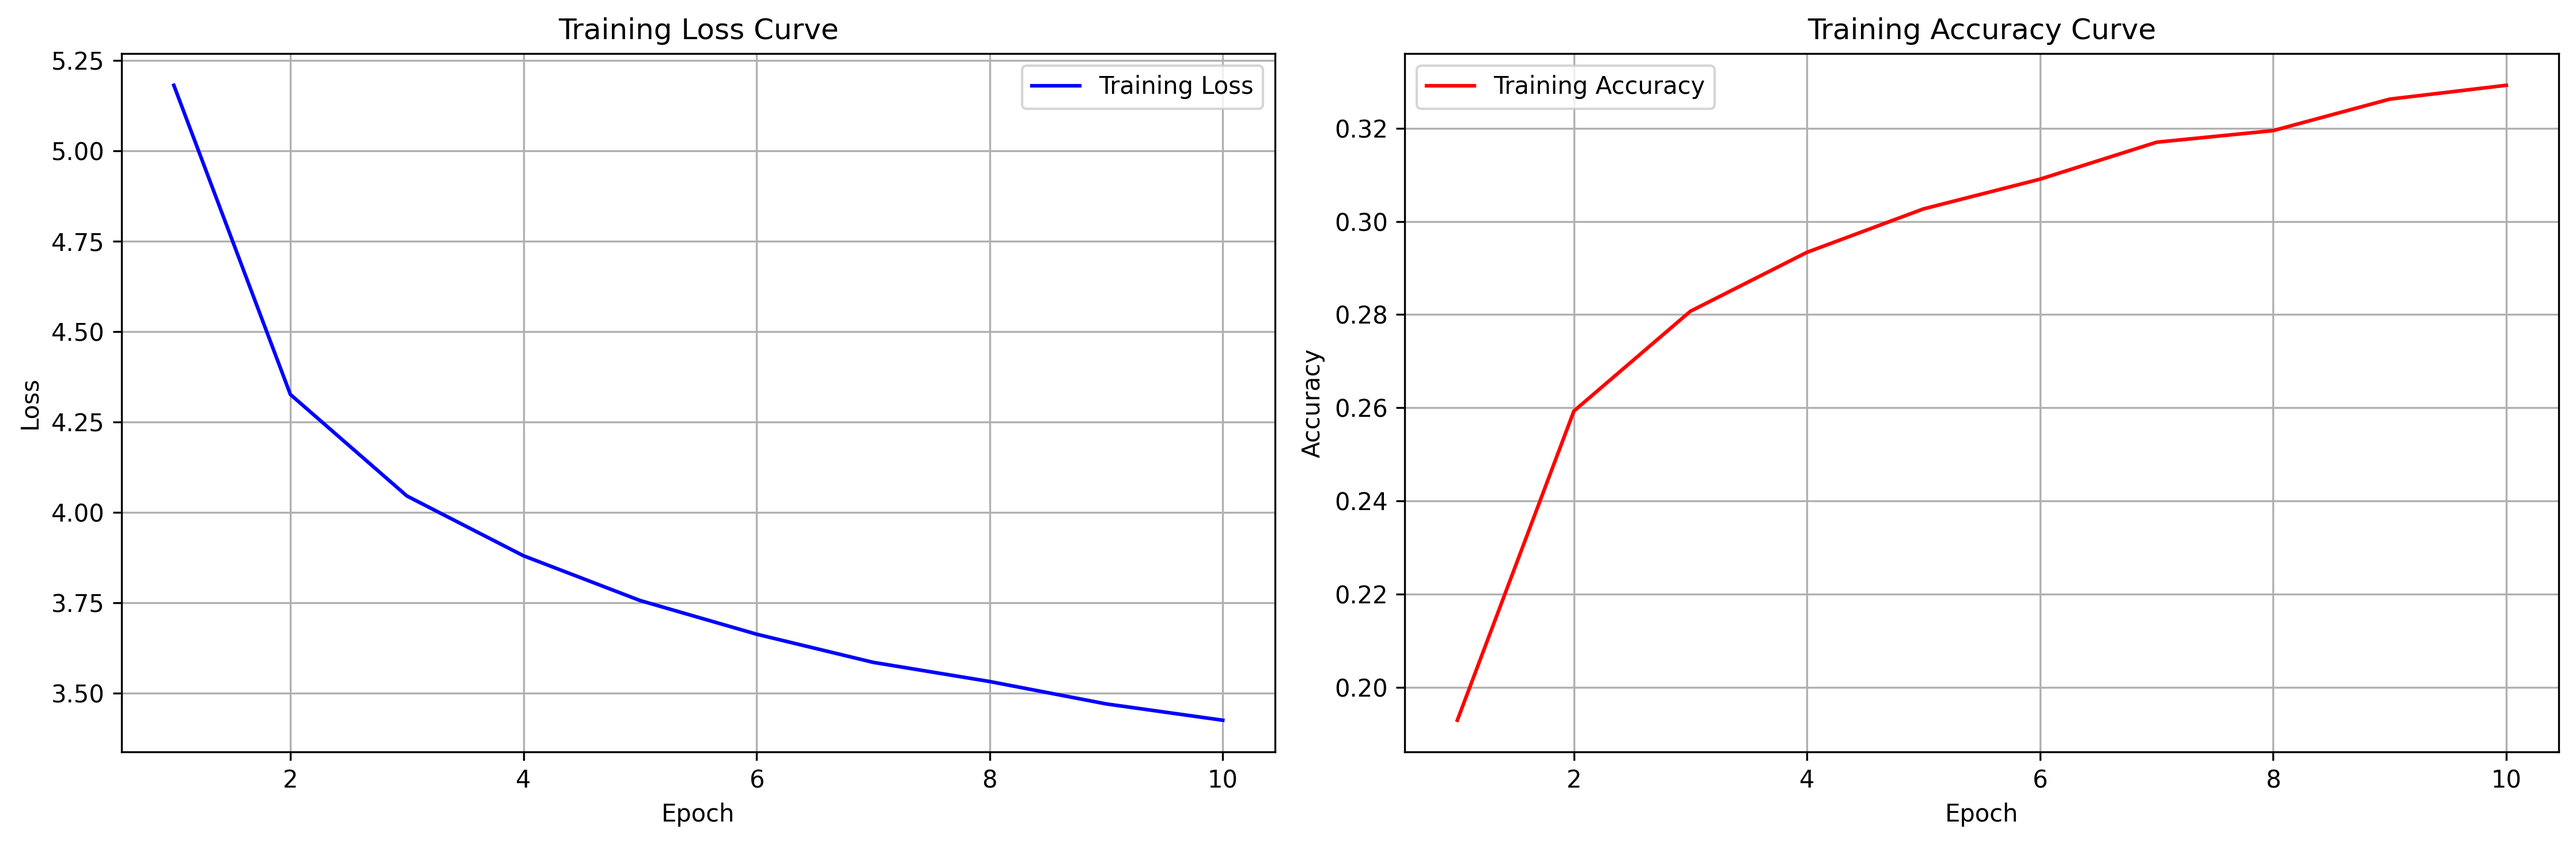
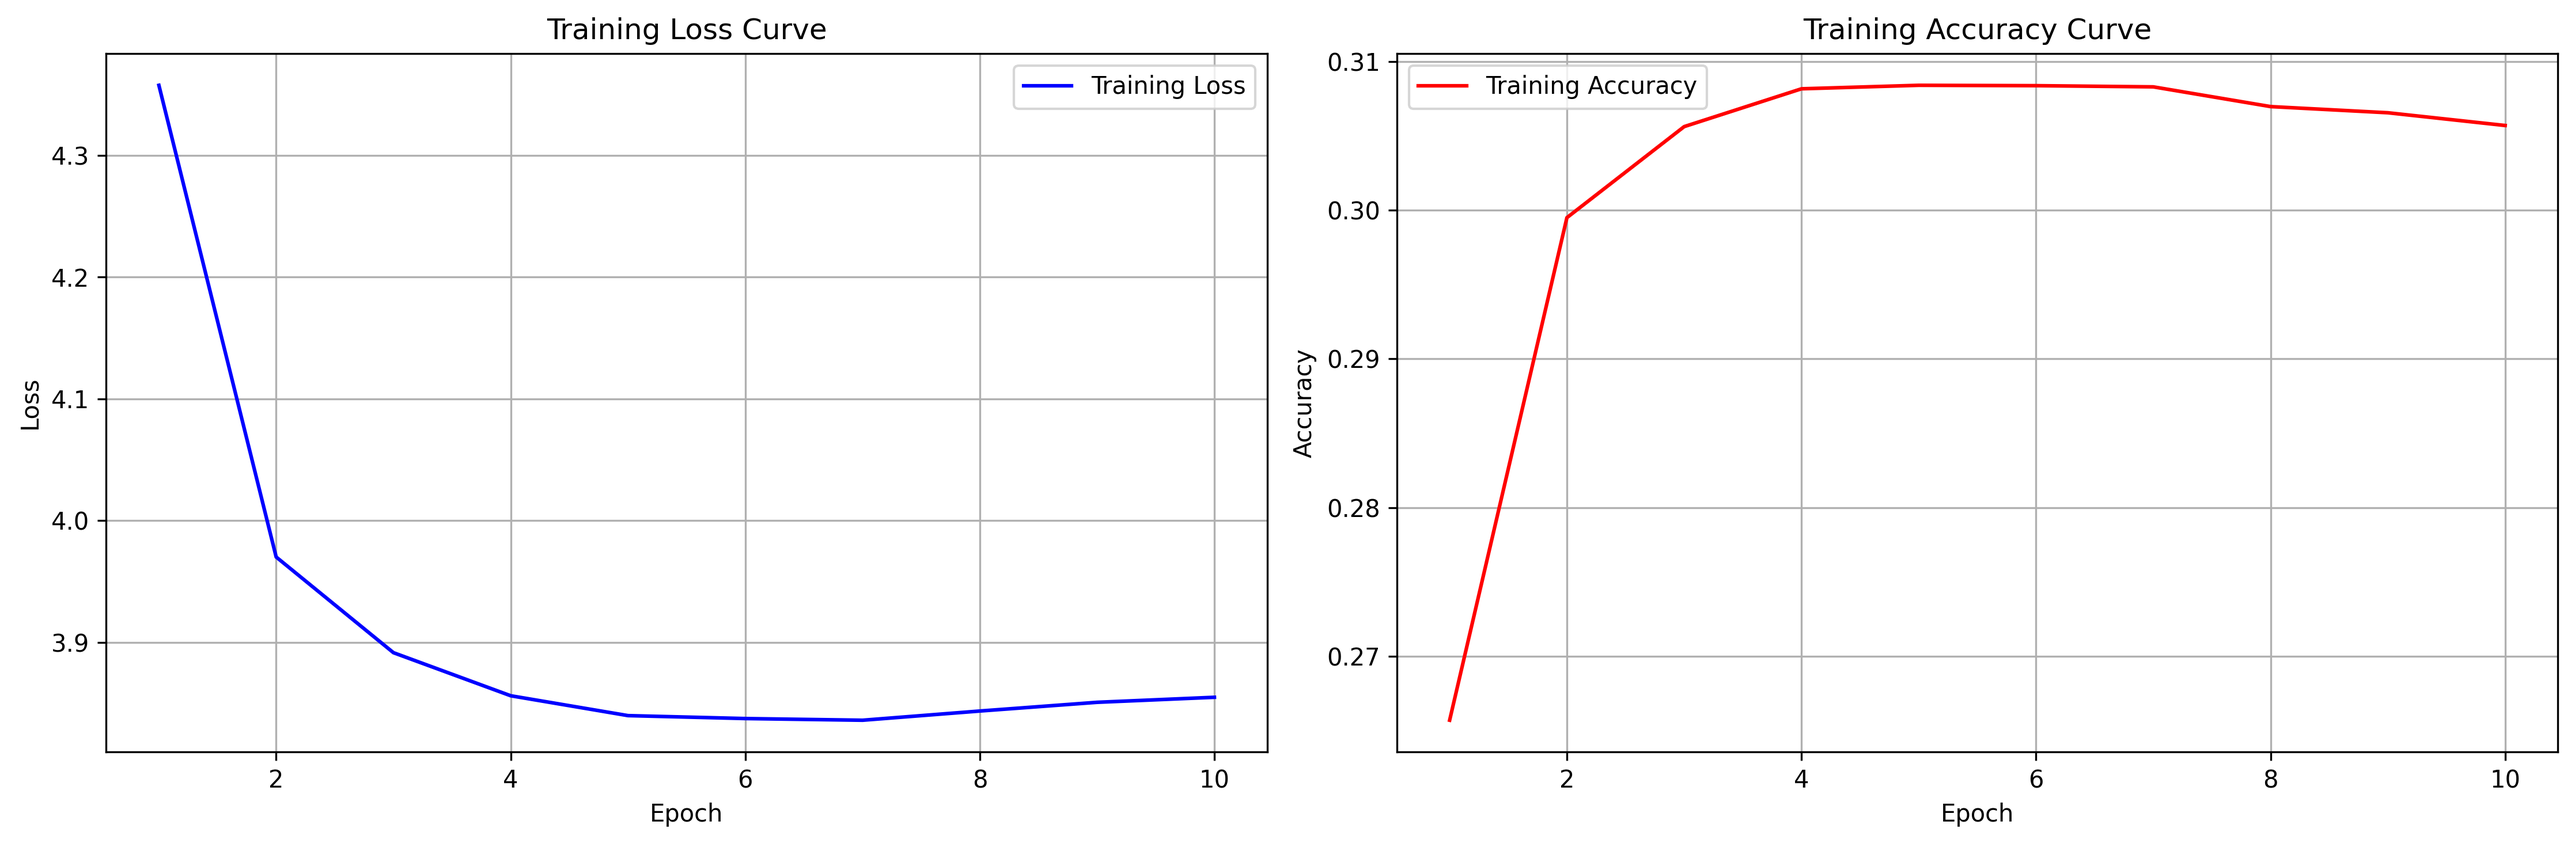
docs: add RNN result

diff --git a/hw1/LSTM.py b/hw1/LSTM.py
@@ -123,7 +123,10 @@ class TextDataset(Dataset):
             # 如果序列太短，跳過
             if len(indices) < 2:
                 continue
-            
+
+            if len(self.sequences) > 1000000:
+                break
+
             # 創建滑動窗口序列
             for i in range(len(indices) - 1):
                 # 輸入序列和目標序列
@@ -439,7 +442,7 @@ def test_incomplete_sentences(trainer, incomplete_file: str):
     print("LSTM 模型文本補全結果")
     print("="*60)
     
-    for incomplete_text in incomplete_texts[:10]:  # 測試前10個
+    for incomplete_text in incomplete_texts:
         completed = trainer.generate_text(incomplete_text, max_length=20, temperature=0.8)
         print(f"輸入: {incomplete_text}")
         print(f"補全: {completed}")
@@ -460,7 +463,7 @@ def main():
     SEQ_LENGTH = 50
     
     # 載入數據
-    train_texts = load_data('train.txt')
+    train_texts = load_data('data/train.txt')
     if not train_texts:
         return
     
@@ -507,11 +510,6 @@ def main():
         
         logger.info(f'Epoch {epoch+1}/{NUM_EPOCHS}, Train Loss: {train_loss:.4f}, Train Accuracy: {train_accuracy:.4f}, Time: {epoch_time:.2f}s')
         
-        # 每幾個 epoch 生成一些文本
-        if (epoch + 1) % 3 == 0:
-            print(f"\nEpoch {epoch+1} 生成範例:")
-            sample_text = trainer.generate_text("add salt", max_length=15)
-            print(f"Generated: {sample_text}")
     
     # 保存模型
     torch.save({
@@ -531,22 +529,10 @@ def main():
     trainer.plot_learning_curves('lstm_learning_curves.png')
     
     # 在測試數據上評估模型
-    evaluate_on_test_data(trainer, vocab, 'test.txt', SEQ_LENGTH, BATCH_SIZE)
+    evaluate_on_test_data(trainer, vocab, 'data/test.txt', SEQ_LENGTH, BATCH_SIZE)
     
     # 測試不完整句子補全
-    test_incomplete_sentences(trainer, 'incomplete.txt')
-    
-    # 生成一些範例文本
-    print("\n" + "="*60)
-    print("LSTM 模型文本生成範例")
-    print("="*60)
-    
-    test_prompts = ["add", "cook", "bake", "mix"]
-    for prompt in test_prompts:
-        generated = trainer.generate_text(prompt, max_length=20)
-        print(f"起始詞: {prompt}")
-        print(f"生成文本: {generated}")
-        print("-" * 50)
+    test_incomplete_sentences(trainer, 'data/incomplete.txt')
 
 if __name__ == "__main__":
     main()

diff --git a/hw1/RNN.py b/hw1/RNN.py
@@ -125,7 +125,7 @@ class TextDataset(Dataset):
                 continue
 
             # 限制總 sequence 數量
-            if len(self.sequences) >= 5000000:
+            if len(self.sequences) >= 1000000:
                 break
             
             # 創建滑動窗口序列
